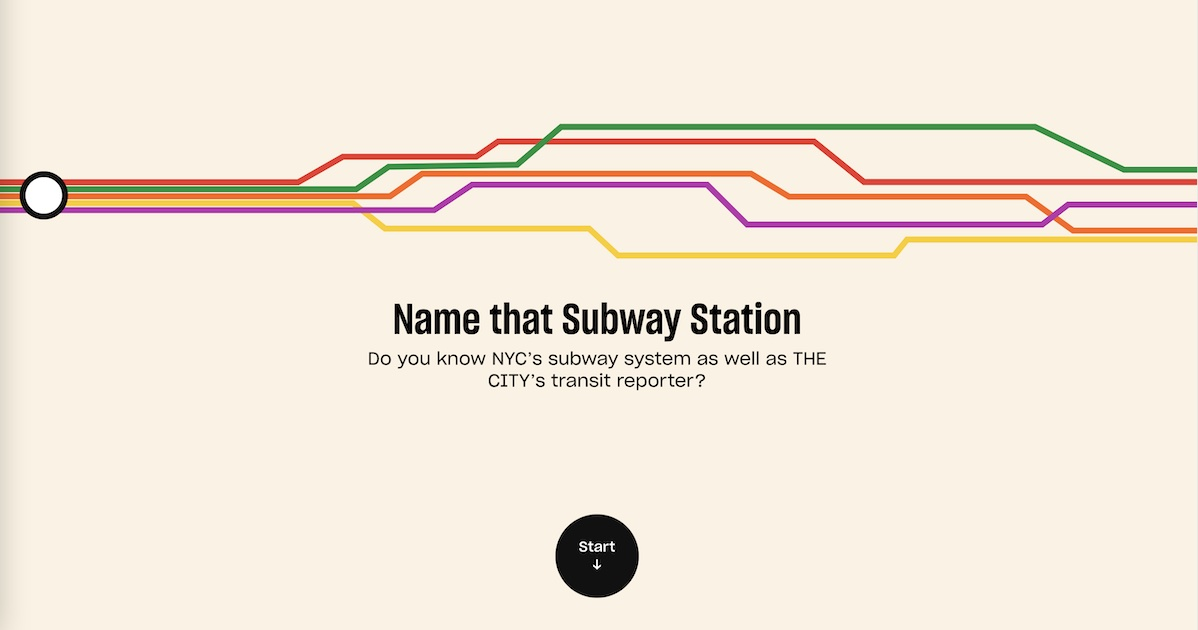
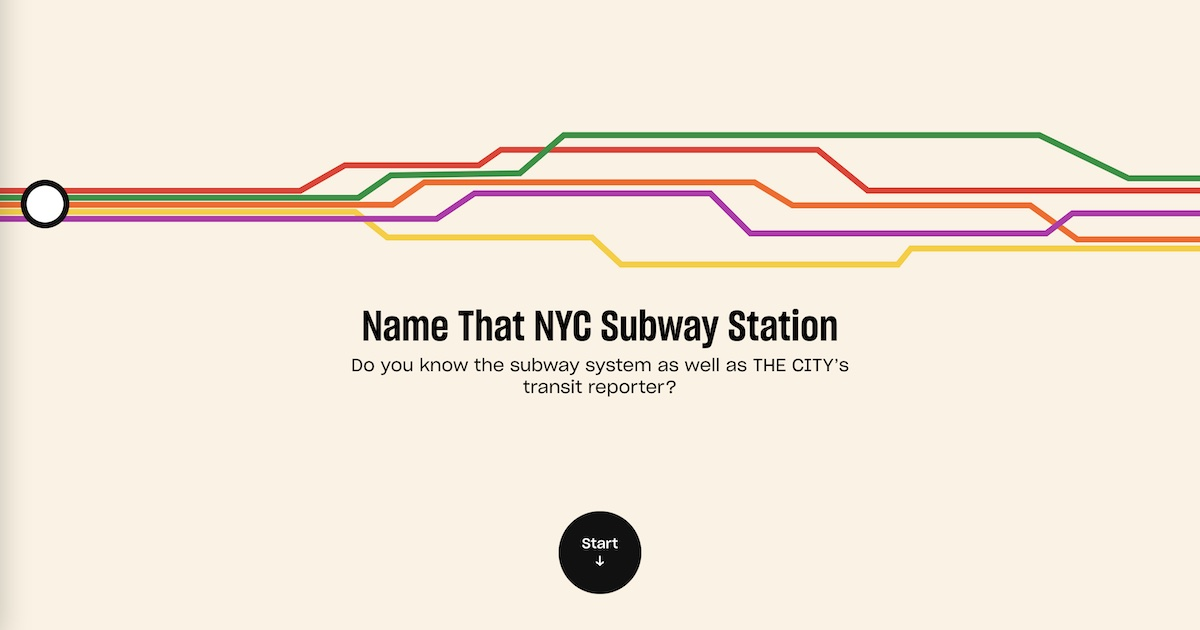
Various copy changes for publication (#9)

Changed region(s): [[0.0, 0.181, 1.0, 0.4524], [0.278, 0.4825, 0.7104, 0.6333], [0.4633, 0.8143, 0.5559, 0.9651]]

diff --git a/src/App.tsx b/src/App.tsx
@@ -60,7 +60,7 @@ export const App = () => {
           <Animation />
           <div className="hero-body">
             <div className="copy-container has-text-centered">
-              <h1 className="title">Name that NYC Subway Station</h1>
+              <h1 className="title">Name That NYC Subway Station</h1>
               <p className="subtitle mb-6">
                 Do you know the subway system as well as THE CITY’s transit
                 reporter?
